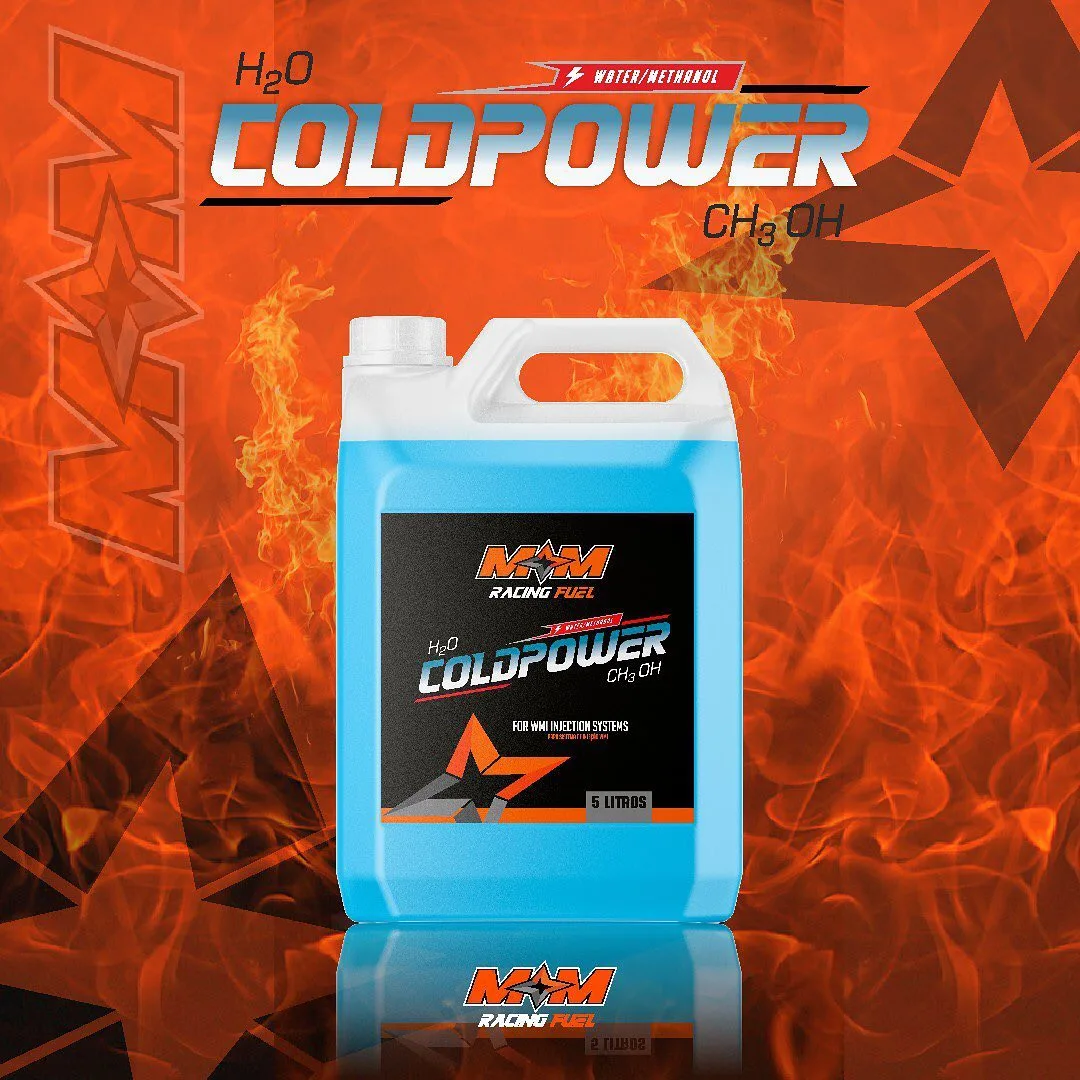
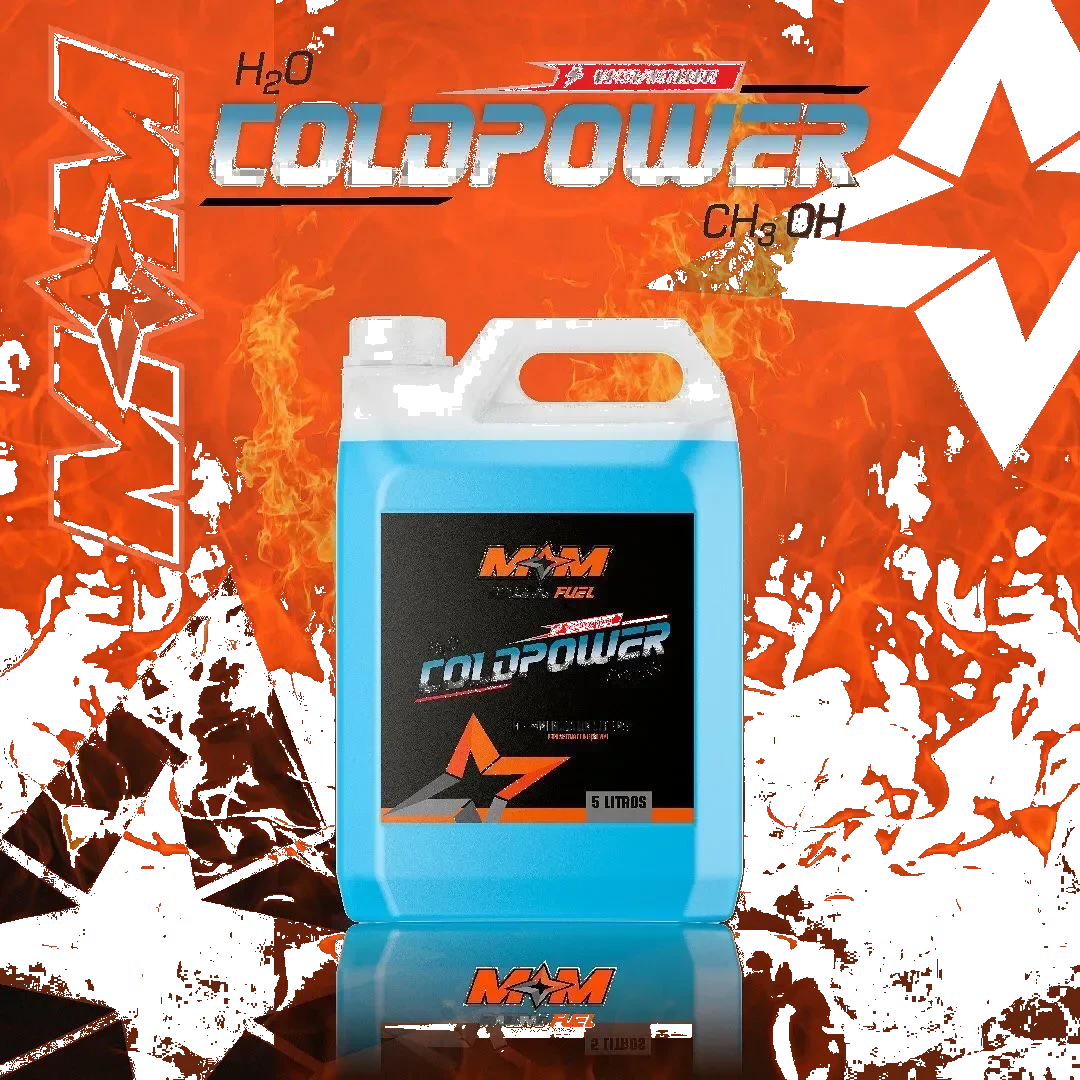
fix: correcao orientacao das fotos, remocao fundo dos produtos, tambor 200l e otimizacao instagram/mobile
- Orientacao dos carros no card Drag Racing & ProMod corrigida para horizontal
- Fundo removido de todos os galoes de combustivel (latas limpas)
- Imagem realista do Tambor Preto de 200L com logotipo MM RACING em branco
- Titulo da secao alterado para 'Nos siga no Instagram!'
- Galeria interativa de fotos no feed do Instagram com link direto
- Mobile: ativacao automatica das cores vibrantes em telas touch/menores sem travar no P&B

diff --git a/index.html b/index.html
@@ -414,14 +414,8 @@
           <article class="product-card reveal product-card--highlight" role="listitem" id="produto-tambor-m100-200l">
             <div class="corner-accent" aria-hidden="true"></div>
             <div class="product-tag">METANOL — VOLUME</div>
-            <div class="product-img-wrap product-img-wrap--tambor">
-              <div class="product-tambor-icon" aria-hidden="true">
-                <svg width="48" height="48" fill="none" stroke="currentColor" viewBox="0 0 24 24">
-                  <path stroke-linecap="round" stroke-linejoin="round" stroke-width="1.5"
-                    d="M20 7l-8-4-8 4m16 0l-8 4m8-4v10l-8 4m0-10L4 7m8 4v10M4 7v10l8 4" />
-                </svg>
-                <span>200L</span>
-              </div>
+            <div class="product-img-wrap">
+              <img src="public/img-tambor-200l.webp" alt="Tambor M100 200L" loading="lazy" class="product-img" />
             </div>
             <h3 class="product-name">TAMBOR M100 200L</h3>
             <p class="product-desc">Metanol 100% puro em tambor de 200 litros. Para equipes profissionais e revendedores que exigem escala e qualidade.</p>
@@ -642,14 +636,14 @@
       <div class="container">
         <div class="mural-header">
           <div>
-            <h2 class="section-title">Mural MM Racing</h2>
+            <h2 class="section-title">Nos siga no Instagram!</h2>
             <p class="mural-sub">Fique conectado. Siga <strong>@mmracingfuel</strong> no Instagram.</p>
           </div>
           <a href="https://www.instagram.com/mmracingfuel/" class="mural-ver-link" aria-label="Ver Instagram MM Racing Fuel"
             target="_blank" rel="noopener noreferrer">VER INSTAGRAM ↗</a>
         </div>
 
-        <!-- Instagram Embed -->
+        <!-- Instagram Feed Container -->
         <div class="instagram-embed-container" aria-label="Feed do Instagram MM Racing Fuel" role="region">
           <div class="instagram-embed-wrapper">
             <blockquote class="instagram-media"
@@ -660,21 +654,27 @@
             </blockquote>
           </div>
 
-          <!-- Fallback CTA sempre visível no desktop file:// e mobile -->
+          <!-- Fallback CTA com fotos de demonstração do feed -->
           <div class="instagram-fallback" id="instagram-fallback">
+            <div class="ig-feed-preview-grid">
+              <a href="https://www.instagram.com/mmracingfuel/" target="_blank" rel="noopener noreferrer" class="ig-preview-item">
+                <img src="public/img-blue-shark.webp" alt="MM Racing Dragster" />
+                <span class="ig-overlay-icon">📷 @mmracingfuel</span>
+              </a>
+              <a href="https://www.instagram.com/mmracingfuel/" target="_blank" rel="noopener noreferrer" class="ig-preview-item">
+                <img src="public/honda-civic.webp" alt="Honda Civic 4.93s 201m Recorde" />
+                <span class="ig-overlay-icon">📷 @mmracingfuel</span>
+              </a>
+              <a href="https://www.instagram.com/mmracingfuel/" target="_blank" rel="noopener noreferrer" class="ig-preview-item">
+                <img src="public/img-promod.webp" alt="Pro Mod MM Racing" />
+                <span class="ig-overlay-icon">📷 @mmracingfuel</span>
+              </a>
+            </div>
             <div class="ig-fallback-inner">
-              <svg width="48" height="48" viewBox="0 0 24 24" fill="none" stroke="currentColor" aria-hidden="true" style="color:var(--orange)">
-                <rect x="2" y="2" width="20" height="20" rx="5" ry="5" stroke-width="1.5" />
-                <circle cx="12" cy="12" r="4" stroke-width="1.5" />
-                <circle cx="17.5" cy="6.5" r="1" fill="currentColor" stroke="none" />
-              </svg>
               <h3 class="ig-fallback-title">@mmracingfuel</h3>
-              <p class="ig-fallback-desc">Siga a MM Racing Fuel no Instagram e acompanhe nossos recordes, bastidores e lançamentos em tempo real.</p>
+              <p class="ig-fallback-desc">Acompanhe nossos recordes, bastidores de pista e lançamentos em tempo real no nosso perfil oficial.</p>
               <a href="https://www.instagram.com/mmracingfuel/" class="btn-primary" target="_blank" rel="noopener noreferrer" id="btn-ver-instagram">
-                VER NOSSO INSTAGRAM
-                <svg width="18" height="18" fill="none" stroke="currentColor" viewBox="0 0 24 24" aria-hidden="true">
-                  <path stroke-linecap="round" stroke-linejoin="round" stroke-width="2" d="M10 6H6a2 2 0 00-2 2v10a2 2 0 002 2h10a2 2 0 002-2v-4M14 4h6m0 0v6m0-6L10 14" />
-                </svg>
+                ACESSAR PERFIL NO INSTAGRAM ↗
               </a>
             </div>
           </div>

diff --git a/style.css b/style.css
@@ -2175,6 +2175,7 @@ button {
 .mod-card-split {
     overflow: hidden;
     position: relative;
+    height: 380px;
 }
 
 .mod-split-img {
@@ -2182,8 +2183,8 @@ button {
     top: 0;
     bottom: 0;
     width: 50%;
-    background-size: 200% auto;
-    background-repeat: no-repeat;
+    background-size: cover;
+    background-position: center;
     filter: grayscale(1);
     transition: filter 0.7s ease, transform 0.7s ease;
 }
@@ -2191,13 +2192,11 @@ button {
 .mod-split-left {
     left: 0;
     transform-origin: left center;
-    background-position: left center;
 }
 
 .mod-split-right {
     right: 0;
     transform-origin: right center;
-    background-position: right center;
 }
 
 /* Hover — desktop */
@@ -2205,25 +2204,18 @@ button {
     filter: grayscale(0);
 }
 
-.mod-card-split:hover .mod-split-left {
-    transform: scale(1.05);
-}
-
+.mod-card-split:hover .mod-split-left,
 .mod-card-split:hover .mod-split-right {
     transform: scale(1.05);
 }
 
-/* Touch / mobile — JS adds .touched class on tap */
-.mod-card-split.touched .mod-split-img {
-    filter: grayscale(0);
-}
-
-.mod-card-split.touched .mod-split-left {
-    transform: scale(1.05);
-}
-
-.mod-card-split.touched .mod-split-right {
-    transform: scale(1.05);
+/* Auto-color on mobile or touch devices */
+@media (max-width: 768px), (hover: none) {
+    .mod-split-img,
+    .mod-card-bg,
+    .product-img {
+        filter: grayscale(0) !important;
+    }
 }
 
 /* Center divider line */
@@ -2233,11 +2225,58 @@ button {
     bottom: 0;
     left: 50%;
     width: 2px;
-    background: rgba(255,107,0,0.5);
+    background: rgba(255,107,0,0.8);
     z-index: 3;
     transform: translateX(-50%);
-    box-shadow: 0 0 8px rgba(255,107,0,0.4);
+    box-shadow: 0 0 10px rgba(255,107,0,0.6);
     pointer-events: none;
+}
+
+/* ── INSTAGRAM PREVIEW GRID ──────────────────────────────────── */
+.ig-feed-preview-grid {
+    display: grid;
+    grid-template-columns: repeat(3, 1fr);
+    gap: 1rem;
+    margin-bottom: 2rem;
+    width: 100%;
+}
+
+.ig-preview-item {
+    position: relative;
+    aspect-ratio: 1 / 1;
+    overflow: hidden;
+    border: 1px solid #222;
+    display: block;
+}
+
+.ig-preview-item img {
+    width: 100%;
+    height: 100%;
+    object-fit: cover;
+    transition: transform 0.4s ease;
+}
+
+.ig-preview-item:hover img {
+    transform: scale(1.08);
+}
+
+.ig-overlay-icon {
+    position: absolute;
+    inset: 0;
+    background: rgba(0,0,0,0.5);
+    color: #fff;
+    font-size: 0.75rem;
+    font-weight: 700;
+    letter-spacing: 0.1em;
+    display: flex;
+    align-items: center;
+    justify-content: center;
+    opacity: 0;
+    transition: opacity 0.3s ease;
+}
+
+.ig-preview-item:hover .ig-overlay-icon {
+    opacity: 1;
 }
 
 /* ── PRODUCT IMAGE ───────────────────────────────────────────── */
